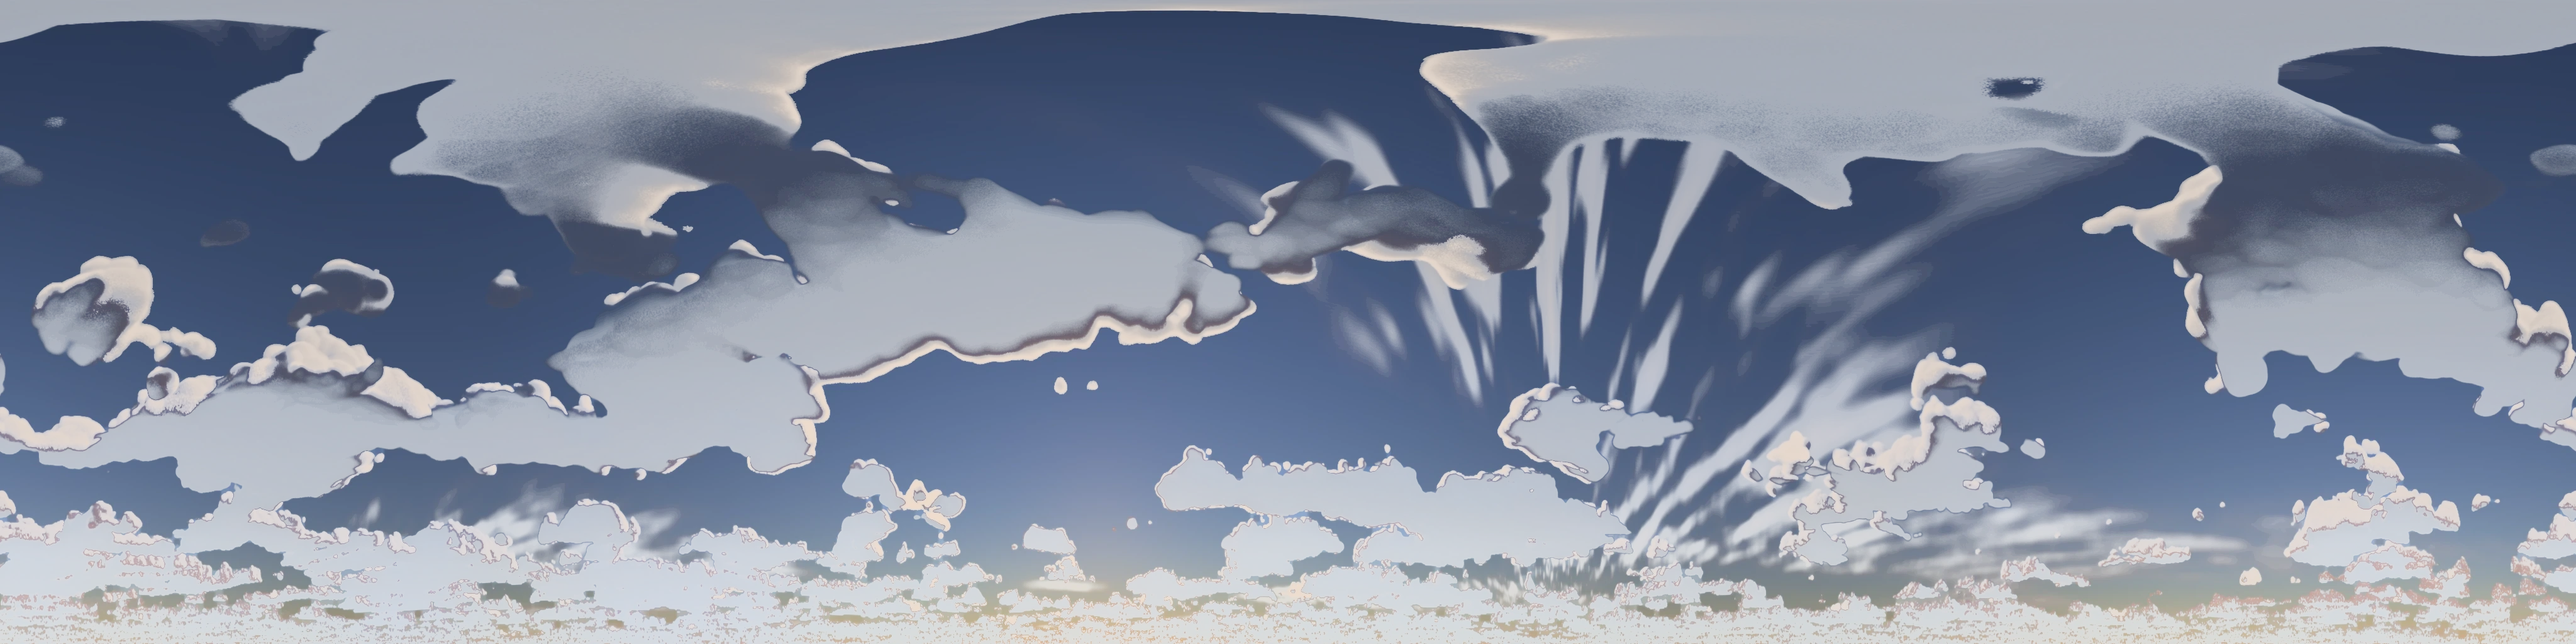
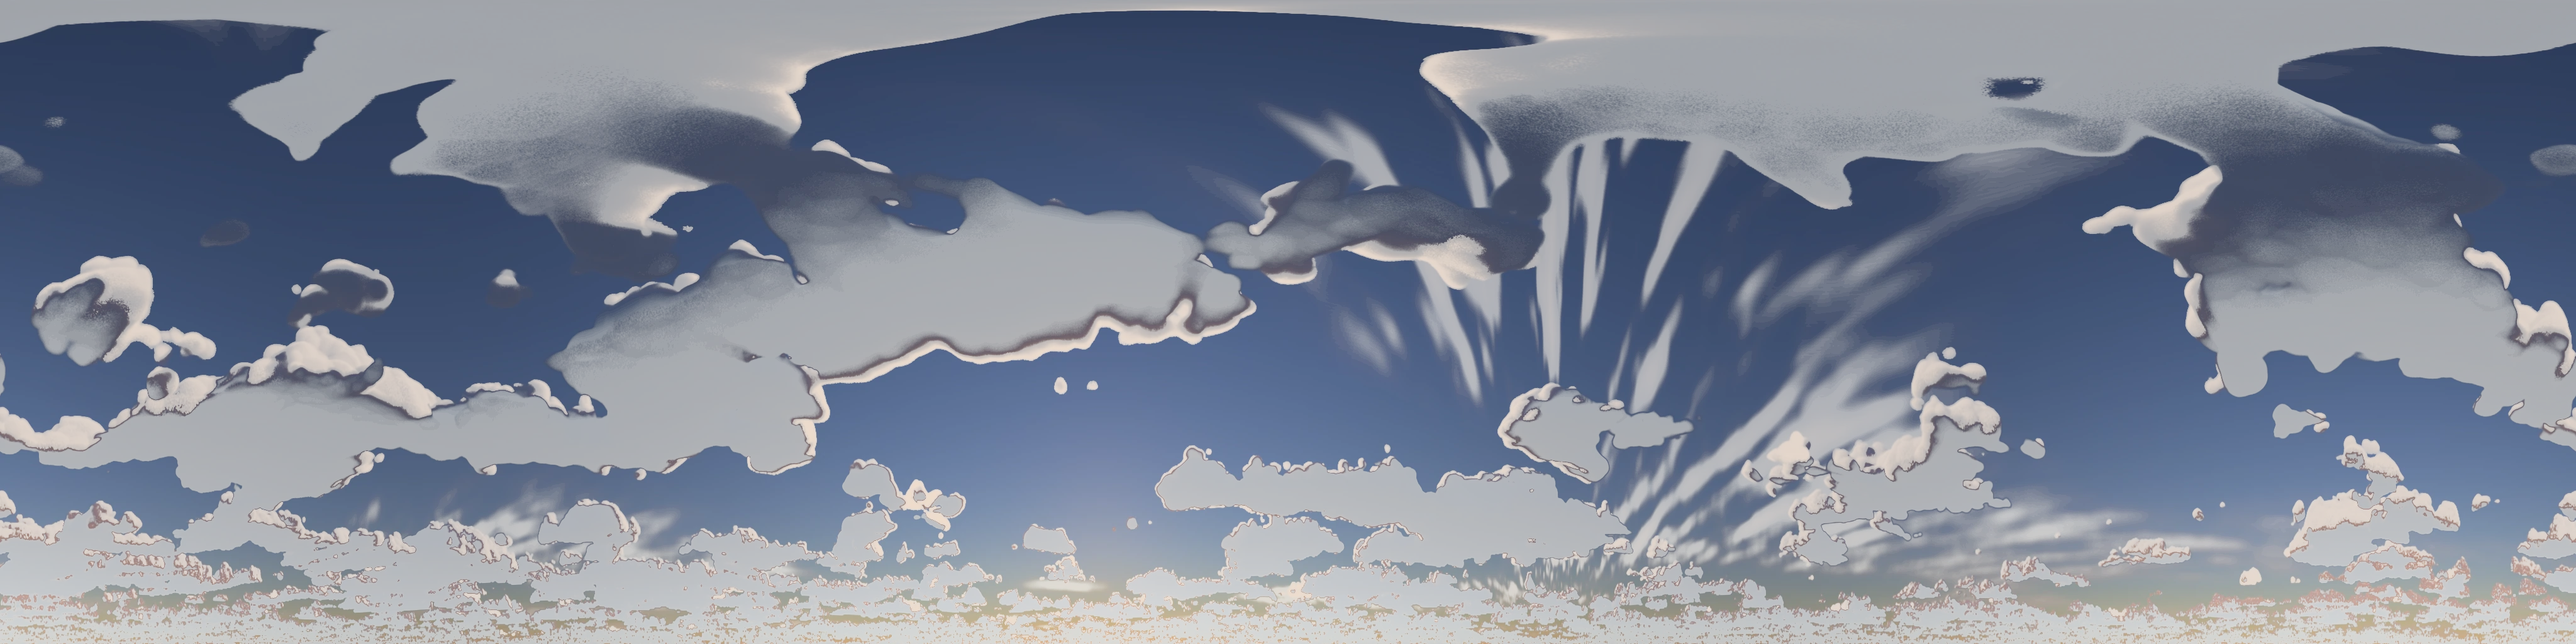
Phone skies: low heaps keep gold tops over darker bases, big heaps a base and a dome; the 4096 files are the untouched source again
The first pass lifted every cloud whole: the 5-15 deg heaps went to a milky wash melting into the bright horizon (with grey
holes where the mask missed a body), and big heaps read as flat pale cut-outs (verifier, sky-only renders). The cumulus
step now takes only 30% of its change at 5 deg, all of it from 18 deg (the putt lens's view up, where the ios-8 smear was,
keeps the whole lift); a texel with more cloud above it than below gives back up to 45% of its lift and a dome gains 15%,
so heaps get a darker flat base; the lit/shade split that picks the shade's blue is taken over the neighbourhood (texel by
texel it blotched Pine's big heap). Spread of cloud luminance (p90/p10) 5-15 / 15-30 deg: base ~1.9 / 3.2, first pass
~1.3 / 1.85, now ~1.6 / 2.0; cloud darker than the sky from 15 deg up stays 0-10% (base 52-58%).

The 4096 WebPs are back to 593eb2a's (never loaded: Desktop draws the gradient dome) and are the source: --from-webp writes
only the phones' 2048 file from them, so a re-run is byte-identical and the phone file is one lossy generation from the
render, not two; a tagged 4096 is refused.

diff --git a/tools/sky-webp.py b/tools/sky-webp.py
@@ -5,10 +5,13 @@
 # sRGB-encoded, so the dome multiplies by HEADROOM and the frame's own tone mapping (ACES at .74 on Desktop, Mobile's
 # CustomToneMapping grade) treats the clouds exactly like the rest of the scene; the grade below is set against what those
 # produce. Alpha is the cloud mask (from the <id>-clear.hdr pass) the dome hides its sun disc behind.
-#   python tools/sky-webp.py [pine meadow lake bluff]   -> assets/skies/<id>.webp (4096x1024), <id>-mobile.webp (2048x512),
-#                                                          previews in art/qa/sky-pano/ (game tone map, for eyeballing)
-#   python tools/sky-webp.py --from-webp [ids]          -> the same, re-graded from the shipped 4096 WebPs (the HDRs live on the
-#                                                          Windows box): only the cumulus step and the shoulder run, once (EXIF tag)
+#   python tools/sky-webp.py [pine meadow lake bluff]   -> assets/skies/<id>.webp (4096x1024, as graded), <id>-mobile.webp
+#                                                          (2048x512, with the cumulus step), previews in art/qa/sky-pano/
+#                                                          (game tone map, for eyeballing)
+#   python tools/sky-webp.py --from-webp [ids]          -> <id>-mobile.webp only, from the shipped 4096 WebP (the HDRs live on the
+#                                                          Windows box): the render as graded before the cumulus step, kept as
+#                                                          the source (nothing loads it: Desktop draws the gradient dome), so a
+#                                                          re-run starts from the same pixels; a 4096 that carries the step is refused
 import io, math, os, sys
 import numpy as np
 from PIL import Image
@@ -35,8 +38,10 @@ YAW = {"pine": 8.}
 # it and the rim read as a dark pink outline), and its shade takes COOL of the sky's own blue, SAT more saturated (sky light
 # fills a cloud's shade, so it reads blue-grey, not brown, through the warm grade); the rims keep their gold. Applied as the
 # change the cloud's core takes, times the cloud mask, so a soft edge composites between the new body and the sky.
-CUMULUS = dict(A=1.6, G=.6, COOL=.3, SAT=1.1, BASE=10.)
-TAG = "chains sky: cumulus 1"   # EXIF ImageDescription on graded files: --from-webp refuses to grade a file twice
+# Heaps also get darker bases under brighter domes (BASES) and, near the horizon, only part of the change (HORIZON: from FLOOR at
+# e0 deg to all of it at e1), both below.
+CUMULUS = dict(A=1.6, G=.6, COOL=.3, SAT=1.1, BASE=10., BASES=(36, 18., .45, .15), HORIZON=(5., 18., .3))
+TAG = "chains sky: cumulus 2"   # EXIF ImageDescription on files the cumulus step graded: --from-webp refuses one as its source
 LUM = np.array([.2126, .7152, .0722], np.float32)
 
 
@@ -105,10 +110,10 @@ def srgb(c):
     return np.where(c <= .0031308, c * 12.92, 1.055 * np.power(np.maximum(c, 0), 1 / 2.4) - .055)
 
 
-def webp(rgb8, budget):
-    """Highest quality (<= 92) that fits the byte budget, tagged as graded (TAG)."""
+def webp(rgb8, budget, tag=True):
+    """Highest quality (<= 92) that fits the byte budget, tagged as carrying the cumulus step (TAG) when it does."""
     im, best, exif = Image.fromarray(rgb8, "RGBA"), None, Image.Exif()
-    exif[0x010e] = TAG
+    if tag: exif[0x010e] = TAG
     for q in range(92, 30, -4):
         b = io.BytesIO(); im.save(b, "WEBP", quality=q, method=6, alpha_quality=60, exif=exif.tobytes())
         best = (b.getvalue(), q)
@@ -175,13 +180,23 @@ def cumulus(lin, alpha):
     # never reaches a solid core keeps its own colour instead of a heap's from a distance.
     core = pushpull(lin, np.clip((t - .2) / .7, 0, 1).astype(np.float32))
     y = np.maximum(core @ LUM, 1e-5); r = y / np.maximum(med, 1e-4)[:, None]
-    lift = CUMULUS["A"] * np.exp((CUMULUS["G"] - 1) * blur(np.log(r), CUMULUS["BASE"]))   # Y'/Y over the neighbourhood
-    lit = np.clip((r - .9) / 1.7, 0, 1); lit = (lit * lit * (3 - 2 * lit))[..., None]   # 0 in the shade, 1 on the bright faces and rims
+    C, el = CUMULUS, np.degrees(np.arcsin(1 - (v + .5) / lin.shape[0]))
+    near = blur(np.log(r), C["BASE"]); lift = C["A"] * np.exp((C["G"] - 1) * near)   # Y'/Y over the neighbourhood
+    lit = np.clip((np.exp(near) - .9) / 1.7, 0, 1); lit = (lit * lit * (3 - 2 * lit))[..., None]   # 0 in the shade, 1 on the bright faces and rims (over the neighbourhood: texel by texel the hue flipped in blotches across a big heap's shade)
     hue = core / y[..., None]
-    hue = hue + (clear / np.maximum(clear @ LUM, 1e-4)[..., None] - hue) * CUMULUS["COOL"] * (1 - lit)
-    hy = (hue @ LUM)[..., None]; hue = hy + (hue - hy) * (1 + (CUMULUS["SAT"] - 1) * (1 - lit)); hue /= np.maximum(hue @ LUM, 1e-5)[..., None]
+    hue = hue + (clear / np.maximum(clear @ LUM, 1e-4)[..., None] - hue) * C["COOL"] * (1 - lit)
+    hy = (hue @ LUM)[..., None]; hue = hy + (hue - hy) * (1 + (C["SAT"] - 1) * (1 - lit)); hue /= np.maximum(hue @ LUM, 1e-5)[..., None]
+    # Lifted evenly, a big heap's flat body read as a pale cut-out (r4 verifier): its base gives back up to `dark` of the lift and
+    # its dome gains up to `light`, by how much more cloud lies K px above a texel than below it (the mask blurred by S px).
+    K, S, dark, light = C["BASES"]; tb = blur(t, S); pad = np.concatenate([np.repeat(tb[:1], K, 0), tb, np.repeat(tb[-1:], K, 0)], 0)
+    g = pad[:-2 * K] - pad[2 * K:]   # cloud above minus cloud below: > 0 toward a heap's base, < 0 toward its dome
+    lift = lift * np.where(g > 0, 1 - dark * np.clip(g, 0, 1), 1 + light * np.clip(-g, 0, 1))
     new = np.maximum(hue * (y * lift)[..., None], 0)
-    w = t * t * (3 - 2 * t)   # the change by how much cloud: a heap's body takes all of it, its soft edge composites into the sky
+    # The change by how much cloud: a heap's body takes all of it, its soft edge composites into the sky. Toward the horizon only
+    # FLOOR of it: lifted whole, the low heaps (seen through the haze, already near the bright horizon sky) went to a milky wash
+    # with grey holes where the mask missed them; there they keep the render's gold tops over darker bases.
+    e0, e1, floor = C["HORIZON"]; k = np.clip((el - e0) / (e1 - e0), 0, 1)
+    w = t * t * (3 - 2 * t) * (floor + (1 - floor) * k * k * (3 - 2 * k))[:, None]
     return np.maximum(lin + (new - core) * w[..., None], 0)
 
 
@@ -224,10 +239,10 @@ def grade(cid):
 
 
 def from_webp(cid):
-    """The shipped 4096 WebP back to the graded linear sky (shoulder undone) and its alpha."""
+    """The shipped 4096 WebP (the render as graded) back to the graded linear sky (shoulder undone) and its alpha."""
     im = Image.open(os.path.join(ROOT, "assets", "skies", cid + ".webp"))
-    if im.getexif().get(0x010e) == TAG:
-        sys.exit(f"{cid}.webp already carries the cumulus step ({TAG}): re-render, or check out the file from before it")
+    if str(im.getexif().get(0x010e, "")).startswith(TAG[:-2]):
+        sys.exit(f"{cid}.webp already carries the cumulus step: re-render, or check out the file from before it (git show 593eb2a:assets/skies/{cid}.webp)")
     a = np.asarray(im.convert("RGBA")).astype(np.float32) / 255
     s = a[..., :3]
     lin = np.where(s <= .04045, s / 12.92, ((s + .055) / 1.055) ** 2.4).astype(np.float32) * HEADROOM
@@ -238,15 +253,19 @@ def main(ids, from_shipped=False):
     prev = os.path.join(ROOT, "art", "qa", "sky-pano"); os.makedirs(prev, exist_ok=True)
     for cid in ids:
         lin, alpha = from_webp(cid) if from_shipped else grade(cid)
-        lin = shoulder(cumulus(lin, alpha))
-        enc = np.clip(np.dstack([srgb(np.clip(lin / HEADROOM, 0, 1)), alpha]) * 255 + .5, 0, 255).astype(np.uint8)
+        # The 4096 file is the render as graded, before the cumulus step: nothing loads it (Desktop draws the gradient dome), it is
+        # the source --from-webp regrades, so a re-run starts from the same pixels and the phones' file is compressed once more, not
+        # twice. Only the phones' 2048 file carries the step.
         for suf, (W, budget) in SIZES.items():
+            if W == 4096 and from_shipped: continue   # the source stays as it is
+            out = shoulder(lin if W == 4096 else cumulus(lin, alpha))
+            enc = np.clip(np.dstack([srgb(np.clip(out / HEADROOM, 0, 1)), alpha]) * 255 + .5, 0, 255).astype(np.uint8)
             img = enc if W == 4096 else np.asarray(Image.fromarray(enc, "RGBA").resize((W, W // 4), Image.LANCZOS))
-            data, q = webp(img, budget)
+            data, q = webp(img, budget, W != 4096)
             with open(os.path.join(ROOT, "assets", "skies", f"{cid}{suf}.webp"), "wb") as f:
                 f.write(data)
             print(f"  assets/skies/{cid}{suf}.webp {W}x{W // 4} q{q} {len(data) / 1000:.0f} KB")
-        Image.fromarray((srgb(aces(lin)) * 255 + .5).astype(np.uint8)).save(os.path.join(prev, f"{cid}-aces.jpg"), quality=90)
+        Image.fromarray((srgb(aces(out)) * 255 + .5).astype(np.uint8)).save(os.path.join(prev, f"{cid}-aces.jpg"), quality=90)
 
 
 if __name__ == "__main__":
